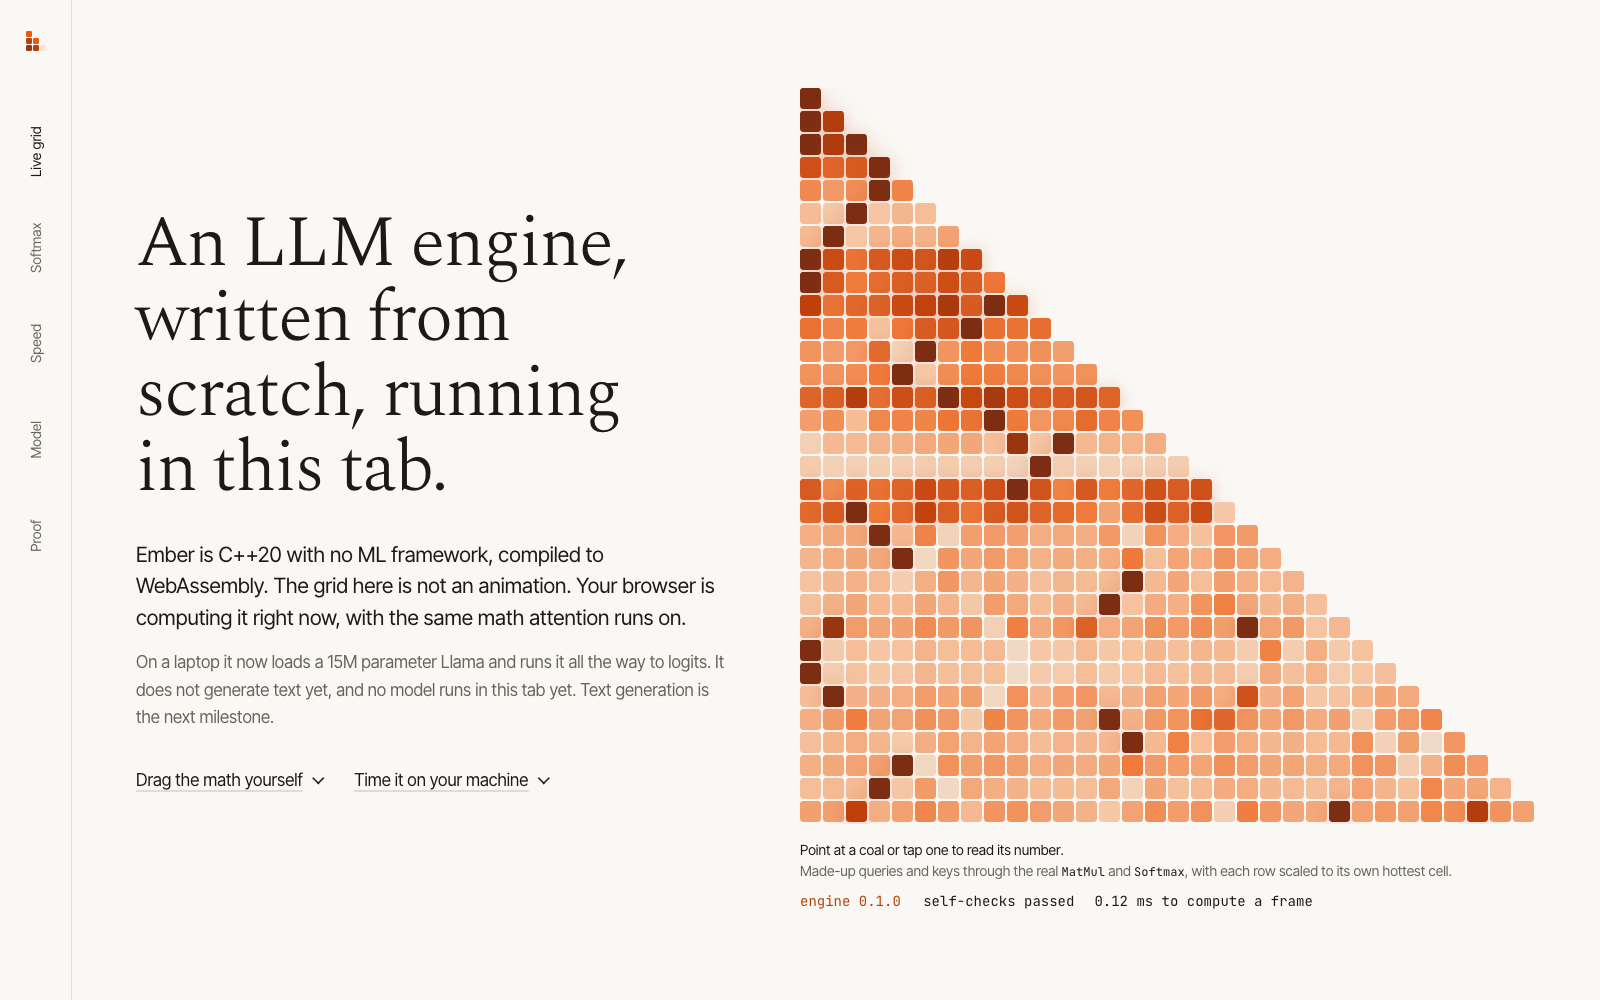
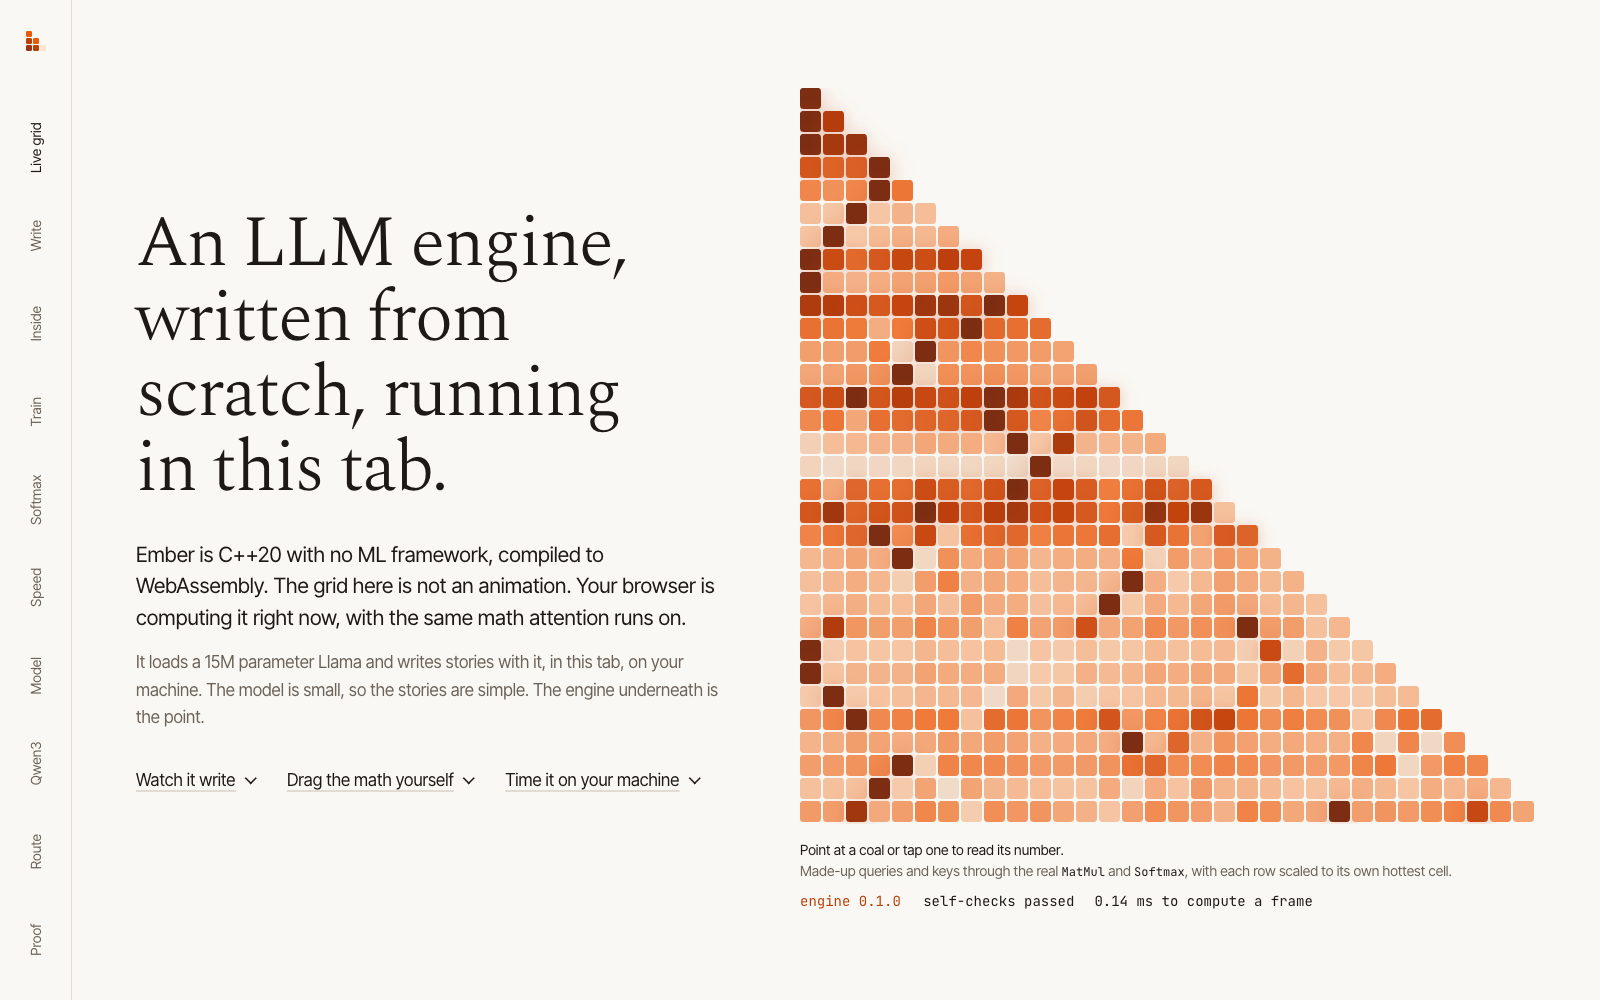
docs(readme): update the 15M rows from the Nov 11 run and retake screenshots
846 tokens a second, NumPy 7.6x faster, 431 tests at 91.9% line coverage, with
the reason coverage fell. Retakes home and model with the new rail and numbers,
and adds a screenshot of the routing section under the Qwen3 table.

diff --git a/README.md b/README.md
@@ -28,23 +28,25 @@ Each row names the script or test that produced it; the numbers are in the linke
 | Threads change speed, not answers | Results identical to the bit for any number of threads | `tests/threads_test.cpp`, and a ThreadSanitizer job in CI |
 | It can learn, not just run | Every autograd operation and a whole transformer's gradients match finite differences in double precision | `tests/autograd_test.cpp`, `tests/char_model_test.cpp` |
 
+![Routing section of the site: Qwen3 0.6B gets 62.1% of GSM8K right alone; escalating 28.9% of held-out questions catches 51.2% of its mistakes and lifts accuracy on the rest to 73.3%; max entropy scores AUROC 0.740 against 0.687 for question length and 0.478 for random](docs/screenshots/route.png)
+
 ### On the 15M parameter TinyStories Llama
 
-Every number here comes from one run of [`scripts/results.sh`](scripts/results.sh), saved in [docs/results/2026-11-09-apple-m4.md](docs/results/2026-11-09-apple-m4.md) with the commit, compiler, and machine. The SIMD row is from the [Nov 8 run](docs/results/2026-11-08-apple-m4.md), which timed the older commit too. Rerun it and you get your own copy.
+Every number here comes from one run of [`scripts/results.sh`](scripts/results.sh), saved in [docs/results/2026-11-11-apple-m4.md](docs/results/2026-11-11-apple-m4.md) with the commit, compiler, and machine. The SIMD row is from the [Nov 8 run](docs/results/2026-11-08-apple-m4.md), which timed the older commit too. Rerun it and you get your own copy.
 
 | Claim | Measured | How it is checked |
 |---|---|---|
 | It matches Hugging Face | Largest logit difference 3.0e-5 from `transformers`' own logits, with the same top token at all 156 positions tested | `tests/hf_reference_test.cpp` against logits saved by `scripts/hf_reference.py`, run in CI on Linux, under sanitizers, and on macOS |
 | Every logit is right | Largest difference 4.2e-5 from a separate NumPy Llama, across all 32,000 logits at the same 156 positions | `scripts/reference_logits.py` on three inputs from 5 to 128 tokens |
-| It runs a real model | 15,191,712 parameters, 814 tokens a second on one thread, 147 MB of memory for the whole process | `ember_bench_model` on the TinyStories Llama |
+| It runs a real model | 15,191,712 parameters, 846 tokens a second on one thread, 147 MB of memory for the whole process | `ember_bench_model` on the TinyStories Llama |
 | Speed work is measured, not guessed | Spelling out the SIMD registers in `Linear` took one token from 1.98 ms to 1.23 ms (1.6x) with logits identical to the bit | `results.sh --before 08c2e73` builds the old commit and times both |
-| It is honest about where it stands | NumPy with Apple's hand-tuned BLAS runs 128 tokens in 21.0 ms. Ember takes 158.4 ms, 7.5x slower | Same script, same machine, same tokens |
+| It is honest about where it stands | NumPy with Apple's hand-tuned BLAS runs 128 tokens in 20.3 ms. Ember takes 154.2 ms, 7.6x slower | Same script, same machine, same tokens |
 | Bad input cannot crash it | Every truncation and thousands of corrupted headers fail cleanly under AddressSanitizer, and libFuzzer runs on every push | `tests/loader_corruption_test.cpp`, `fuzz/`, CI |
-| The tests reach the code | 328 tests, covering 97.8% of lines and 86.0% of branches in `src/` | `scripts/coverage.sh` |
+| The tests reach the code | 431 tests, covering 91.9% of lines and 74.5% of branches in `src/`. The gap is mostly `tokenizer.cpp` (70% of lines), whose Qwen3 tests need the 1.5 GB model, which the coverage run does not load | `scripts/coverage.sh` |
 
-![Model section of the site: logits within 3.0e-5 of Hugging Face's, the same next token at 156 of 156 positions, 814 tokens a second, and a bar chart where NumPy runs 128 tokens in 21 ms against Ember's 158 ms](docs/screenshots/model.png)
+![Model section of the site: logits within 3.0e-5 of Hugging Face's, the same next token at 156 of 156 positions, 846 tokens a second, and a bar chart where NumPy runs 128 tokens in 20 ms against Ember's 154 ms](docs/screenshots/model.png)
 
-These rows are from the Nov 9 run, before threads and 8-bit weights; the Qwen3 rows above are newer.
+These rows are from the Nov 11 run, on one thread and f32 weights; threads and 8 bits are in the Qwen3 rows above.
 
 ## Why it matters
 
